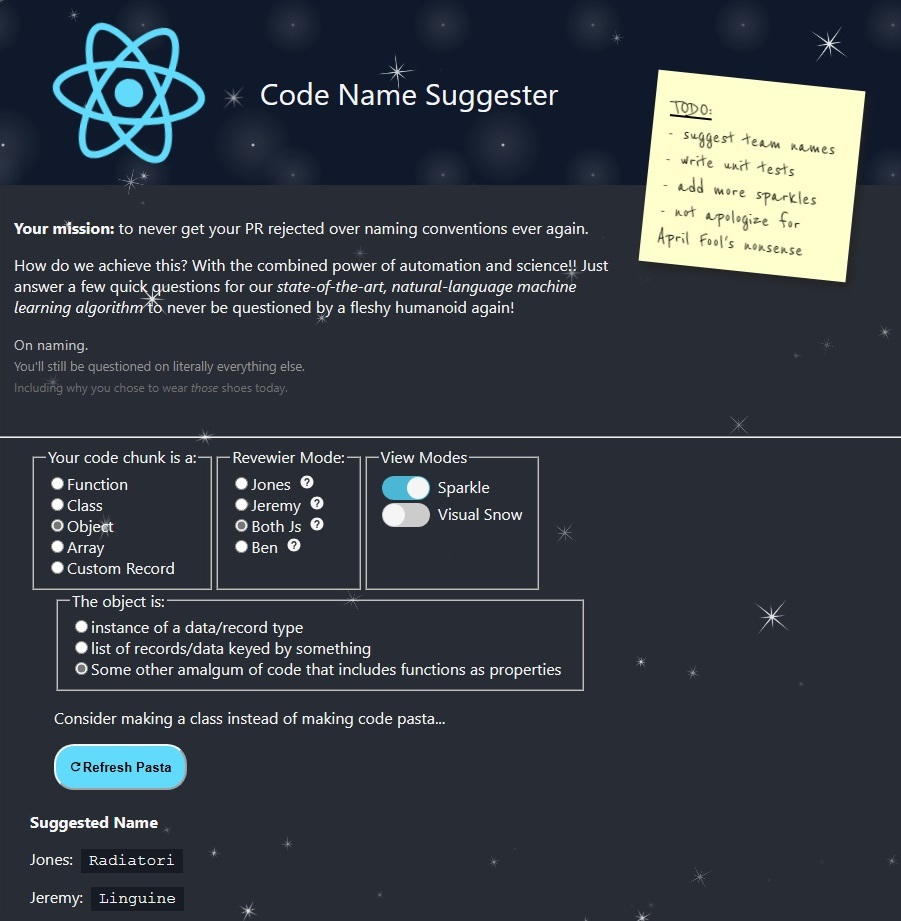
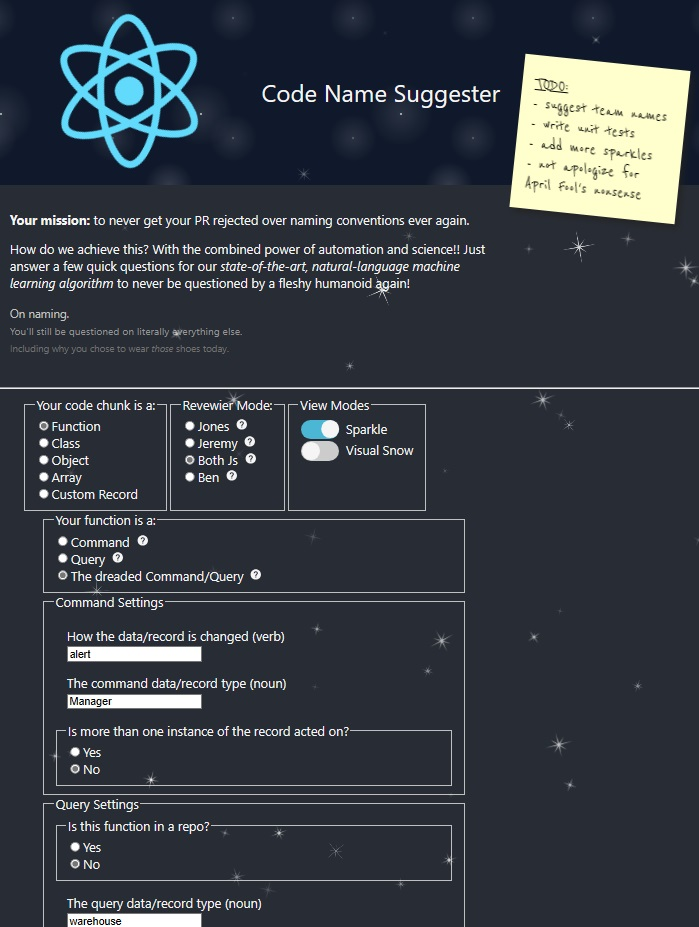
add demos and better images

diff --git a/V2/assets/scripts/PortfolioData.js b/V2/assets/scripts/PortfolioData.js
@@ -131,12 +131,12 @@ const PortfolioData = {
 		new Project(
 			'Discord Bot',
 			'../assets/images/projects/discordbot.jpg',
-			'',
+			'../assets/videos/ArecaceDemo.mp4',
 			`Made for convenience and trolling.
-			Includes commands for DnD and VtM dice rolls, prompt generators, and fetching web scraped data.
-			I used it as an opportunity to start from nothing and see what inconveniences drove me to improve the dev experience.
-			I quickly realized that I now expect all my projects to have:
-			lint auto-fix on save, a unit testing framework for TDD, and path aliases. 
+			Includes commands dice rolls, generators, and fetching web-scraped data.
+			I started from nothing to see what inconveniences drove me to improve the dev experience.
+			I realized all my projects need to have:
+			linting on save, a unit tests for TDD, and path aliases. 
 			`,
 			[
 				AllLanguages[LanguageKey.NODE],
@@ -149,7 +149,7 @@ const PortfolioData = {
 		new Project(
 			'Code Namer',
 			'../assets/images/projects/CodeNamer.jpg',
-			'',
+			'../assets/videos/ArecaceDemo.mp4',
 			`An April Fool's Day prank app.
 			Based on a number of long running jokes at work, DDD concepts, and my personal sense of humor.
 			This project was an excuse to learn react in my personal time back when we planned to transition
@@ -165,8 +165,8 @@ const PortfolioData = {
 		),
 		new Project(
 			'Song Evolution Model',
-			'../assets/images/projects/SEM.png',
-			'',
+			'../assets/images/projects/SEM.jpg',
+			'../assets/videos/SEMDemo.mp4',
 			`An agent based model I developed for my PhD thesis.
 			It simulates how birdsong evolves under different selection pressures.
 			Initially written in R, the model ran too slow to generate the volume of data I needed.
@@ -187,8 +187,8 @@ const PortfolioData = {
 		),
 		new Project(
 			'VtM Maps',
-			'../assets/images/projects/VtMMaps.png',
-			'',
+			'../assets/images/projects/VtMMaps.jpg',
+			'../assets/videos/ArecaceDemo.mp4',
 			`A app for my Vampire the Masquerade Campaign: Phoenix Heat.
 			It acts as a quick references for the NPCs my players had met, as well as in-game locations.
 			Includes two maps: one for real world Phoenix and a second for fictional town Hartstone
@@ -196,20 +196,19 @@ const PortfolioData = {
 			`,
 			[],
 			[
-				new Link('Live Project', 'https://carddatabase-6dfef.web.app/Masterlist'),
-				new Link('Repo', 'https://github.com/NeuroBio/CardDatabase_ng14'),
+				new Link('Live Project', 'https://neurobio.github.io/VtM-Maps/'),
+				new Link('Repo', 'https://github.com/NeuroBio/VtM-Maps'),
 			]
 		),
 		new Project(
 			'Card Database',
-			'../assets/images/projects/Cards.png',
-			'',
-			`A app for managing my pokemon card collection.
-			The app itself is mostly focused on tracking and organizing cards.
-			There's also a set of python scripts for web scraping expansion sets from Bulbapedia that are run in the CLI.
-			I'm starting to get a lot of data (over 20K cards), which causes performance issues in the app.
-			At the moment, I added a card cache to make reloads faster.
-			The next steps will be changing my app to request and display data differently to reduce lag.
+			'../assets/images/projects/Cards.jpg',
+			'../assets/videos/CardsDemo.mp4',
+			`For managing my pokemon card collection.
+			The app focuses on tracking and organizing cards.
+			Web scraping scripts for fetch expansion sets from Bulbapedia.
+			At over 20K cards in the database, there are now performance issues.
+			The next steps will be focused on reducing lag.
 			`,
 			[
 				AllLanguages[LanguageKey.ANGULAR],